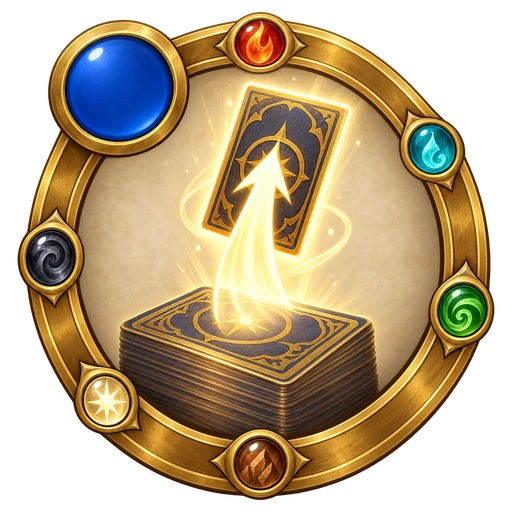
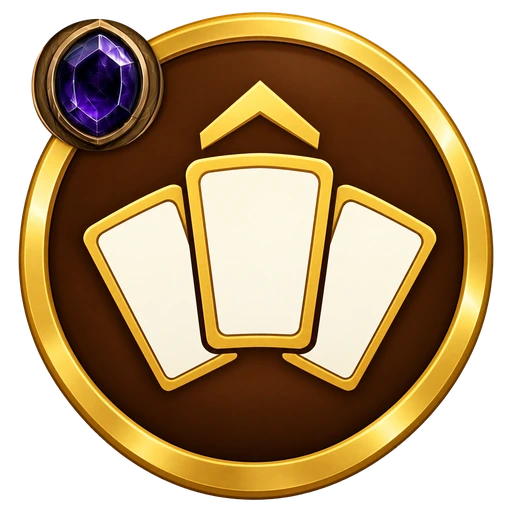
v0.321 소울 드로우 아이콘 4번

diff --git a/fantasy_arena/js/render.js b/fantasy_arena/js/render.js
@@ -1174,15 +1174,15 @@ function layoutHudGems() {
     const L = parseFloat(el.style.left);
     if (!Number.isNaN(L)) el.style.setProperty("left", (L - 170) + "px", "important");
   });
-  // v0.320 소울 드로우 버튼 (~68px @1280×800). 내 버튼: 소울 표시 바로 아래(핸드 10장 오른쪽 끝 바깥 · 5번째 유닛 칸 아래).
+  // v0.321 소울 드로우 버튼 (~92px @1280×800, v0.319의 2배). 내 버튼: 소울 표시 바로 아래(핸드 10장 오른쪽 끝 바깥 · 5번째 유닛 칸 아래).
   // 소울 표시 왼쪽은 핸드 10장 오른쪽 카드와, 위쪽은 5번째 유닛 칸과 겹쳐 빈 자리가 없다. 상대 버튼: 상대 소울 왼쪽, 비율 축소.
-  [["mySoulDraw", "mySoulGem", 1.0, "below"], ["oppSoulDraw", "oppSoulGem", 0.72, "left"]].forEach(([bid, gid, k, mode]) => {
+  [["mySoulDraw", "mySoulGem", 1.0, "below"], ["oppSoulDraw", "oppSoulGem", 0.6, "left"]].forEach(([bid, gid, k, mode]) => {
     const b = document.getElementById(bid);
     const g = document.getElementById(gid);
     if (!b || !g || !g.style.left) return;
     const gl = parseFloat(g.style.left), gt = parseFloat(g.style.top);
     if (Number.isNaN(gl) || Number.isNaN(gt)) return;
-    const D = Math.round(Math.max(44, SOUL_W * 1.15) * k);
+    const D = Math.round(Math.max(60, SOUL_W * 1.56) * k);
     // 보이는 소울 숫자(텍스트) 기준으로 붙인다 — #…SoulGem 상자는 숫자보다 넓다
     let textL = null, textCY = null, textB = null;
     try {
@@ -1258,18 +1258,20 @@ function layoutHudGems() {
 /** v0.319 소울 드로우 버튼 상태 (내 버튼: 클릭 · 상대 버튼: 표시만). 아이콘은 assets/img/ui/soul_draw.webp */
 const SOUL_DRAW_ICON = "assets/img/ui/soul_draw.webp";
 /** 아이콘(1024 기준)의 소울 보석 중심·반지름 — 아이콘 교체 시 여기만 맞춘다 */
-const SOUL_DRAW_GEM = { cx: 238, cy: 176, r: 104 };
-function paintSoulDrawCost(btn) {
+const SOUL_DRAW_GEM = { cx: 195, cy: 170, r: 90 };
+function paintSoulDrawCost(btn, cost) {
   const cv = btn && btn.querySelector("canvas.sd-cost");
-  if (!cv || cv._painted) return;
-  // 캔버스 = 아이콘 전체(1024 기준 좌표 비율). 파란 소울 보석 중심 (238,176) r104 → 숫자 크기 ≈ 1.3r
+  if (!cv) return;
+  const txt = String(cost != null ? cost : (typeof SOUL_DRAW_COST !== "undefined" ? SOUL_DRAW_COST : 3));
+  if (cv._painted && cv._txt === txt) return;   // v0.321: 비용 값이 바뀌면 다시 그림
+  cv._txt = txt;
+  // 캔버스 = 아이콘 전체(1024 기준 좌표 비율). v0.321 보라 소울 보석 중심 (195,170) → 숫자 크기 ≈ 1.3r
   const S = 256;
   cv.width = S; cv.height = S;
   const c2 = cv.getContext && cv.getContext("2d");
   if (!c2) return;
   const G = SOUL_DRAW_GEM;
   const cx = S * G.cx / 1024, cy = S * G.cy / 1024, size = Math.round(S * G.r * 1.3 / 1024);
-  const txt = String(typeof SOUL_DRAW_COST !== "undefined" ? SOUL_DRAW_COST : 3);
   // 카드 소울 숫자와 같은 글꼴·색 (900 Noto Sans KR · #120800 외곽선 · 흰색), 외곽선만 얇게
   c2.clearRect(0, 0, S, S);
   c2.save();
@@ -1297,7 +1299,7 @@ function initSoulDrawBtn(btn, clickable) {
   btn.innerHTML = `<img class="sd-icon" src="${SOUL_DRAW_ICON}?v=${v}" alt="" draggable="false"><canvas class="sd-cost" aria-hidden="true"></canvas>`;
   paintSoulDrawCost(btn);
   // 웹폰트 로드 후 다시 그림 (첫 그림이 Arial 대체 글꼴일 수 있음)
-  try { if (document.fonts && document.fonts.ready) document.fonts.ready.then(() => { const cv = btn.querySelector("canvas.sd-cost"); if (cv) { cv._painted = false; paintSoulDrawCost(btn); } }); } catch (e) {}
+  try { if (document.fonts && document.fonts.ready) document.fonts.ready.then(() => { const cv = btn.querySelector("canvas.sd-cost"); if (cv) { cv._painted = false; paintSoulDrawCost(btn, cv._txt); } }); } catch (e) {}
   if (clickable) {
     btn.addEventListener("pointerdown", () => { if (!btn.disabled) btn.classList.add("pressed"); });
     ["pointerup", "pointerleave", "pointercancel"].forEach(ev => btn.addEventListener(ev, () => btn.classList.remove("pressed")));
@@ -1309,6 +1311,13 @@ function updateSoulDrawBtns(me, opp) {
   const ob = document.getElementById("oppSoulDraw");
   initSoulDrawBtn(mb, true);
   initSoulDrawBtn(ob, false);
+  const costOf = (p) => (typeof soulDrawCost === "function") ? soulDrawCost(p) : 3;
+  if (mb) {
+    paintSoulDrawCost(mb, costOf(me));
+    const t = `소울 드로우\n${costOf(me)}소울: 카드 1장을 뽑는다 (한 턴에 한 번)`;
+    if (mb.title !== t) mb.title = t;
+  }
+  if (ob) paintSoulDrawCost(ob, costOf(opp));
   if (mb) {
     const can = typeof canSoulDraw === "function" && !me.isAI && canSoulDraw(me);
     mb.disabled = !can;

diff --git a/fantasy_arena/js/game.js b/fantasy_arena/js/game.js
@@ -1,4 +1,4 @@
-const GAME_VERSION = "0.320";
+const GAME_VERSION = "0.321";
 window.GAME_VERSION = GAME_VERSION;
 
 function uid() { return Math.random().toString(36).slice(2, 9); }
@@ -260,20 +260,31 @@ function startGame(vsAI) {
  * 스펠이 아니다 (올빼미의눈·맹덕신서와 무관). 드로우는 일반 draw() 경로 (손패 10장 소각·빈 덱 피로 동일).
  */
 const SOUL_DRAW_COST = 3;
+/**
+ * v0.321: 소울 드로우 비용 — 규칙 판정·차감·버튼 숫자가 모두 이 값을 읽는다.
+ * 스펠 등으로 바꿀 때: p.soulDrawCost (해당 플레이어) 또는 state.soulDrawCost (양쪽 공통).
+ */
+function soulDrawCost(p) {
+  const v = (p && p.soulDrawCost != null) ? p.soulDrawCost
+    : (typeof state !== "undefined" && state && state.soulDrawCost != null) ? state.soulDrawCost
+    : SOUL_DRAW_COST;
+  return Math.max(0, v | 0);
+}
 function canSoulDraw(p) {
   if (!state || state.over || !p) return false;
   if (p !== current()) return false;
   if (p._soulDrawUsed) return false;
-  if ((p.soul | 0) < SOUL_DRAW_COST) return false;
+  if ((p.soul | 0) < soulDrawCost(p)) return false;
   if (state.busy) return false;
   if (typeof ui !== "undefined" && ui && ui.battling) return false;
   return true;
 }
 function useSoulDraw(p) {
   if (!canSoulDraw(p)) return false;
-  p.soul -= SOUL_DRAW_COST;
+  const cost = soulDrawCost(p);
+  p.soul -= cost;
   p._soulDrawUsed = true;
-  log(p.isAI ? "상대가 소울 드로우 사용" : "소울 드로우 사용 (3소울 · 드로우 1)");
+  log(p.isAI ? "상대가 소울 드로우 사용" : `소울 드로우 사용 (${cost}소울 · 드로우 1)`);
   draw(p, 1);
   checkWin();
   return true;

diff --git a/fantasy_arena/index.html b/fantasy_arena/index.html
@@ -237,9 +237,9 @@
 <script src="js/bgm.js?v=0.301"></script>
 <script src="js/sfx.js?v=0.102"></script>
 <script src="js/settings.js?v=0.300"></script>
-<script src="js/render.js?v=0.320"></script>
+<script src="js/render.js?v=0.321"></script>
 <script src="js/combat.js?v=0.319"></script>
 <script src="js/spell-fx.js?v=0.102"></script>
-<script src="js/game.js?v=0.320"></script>
+<script src="js/game.js?v=0.321"></script>
 </body>
 </html>

diff --git a/fantasy_arena/BALANCE_RULES_LOCK.md b/fantasy_arena/BALANCE_RULES_LOCK.md
@@ -226,10 +226,11 @@
 모든 속성·영웅 공통 버튼 (양쪽 플레이어·AI 모두).
 
 - **3소울**을 내고 카드 **1장을 뽑는다.** 체력 비용 없음.
-- **한 턴에 한 번**, **내 턴에만**, 현재 소울이 3 이상일 때만 쓸 수 있다. 그 밖에는 버튼이 꺼진다(회색).
+- **한 턴에 한 번**, **내 턴에만**, 현재 소울이 비용(기본 3) 이상일 때만 쓸 수 있다. 그 밖에는 버튼이 꺼진다(회색).
 - 손패가 가득 차 있으면 뽑은 카드는 일반 드로우처럼 불탄다. 덱이 비었으면 일반 드로우와 같이 피로 피해.
 - **스펠이 아니다.** 올빼미의눈(상대 스펠 소울 +1)·맹덕신서(상대 스펠 복사)와 상관없다. 드로우로는 취급한다(일반 드로우 경로).
-- 위치: 전장 오른쪽 아래 내 소울 표시 바로 아래 원형 버튼 (~68px, 핸드 10장·5번째 유닛 칸과 겹치지 않는 자리 · 아이콘 `assets/img/ui/soul_draw.webp`, 왼쪽 위 파란 보석에 코드로 그린 숫자 3). 상대 버튼은 상대 소울 표시 왼쪽에 비율 축소.
+- 비용 값: 코드 `soulDrawCost(p)` = `p.soulDrawCost` → `state.soulDrawCost` → 기본 `SOUL_DRAW_COST`(3). 사용 가능 판정·소울 차감·버튼 숫자가 모두 이 값을 읽으므로 스펠 등으로 바꿀 수 있다 (v0.321).
+- 위치: 전장 오른쪽 아래 내 소울 표시 바로 아래 원형 버튼 (v0.321 ~92px @1280×800, 핸드 10장·5번째 유닛 칸·턴 종료 버튼과 겹치지 않는 자리 · 아이콘 `assets/img/ui/soul_draw.webp` = 카드 펼침 엠블럼, 왼쪽 위에 카드 소울 비용과 같은 보라 소울 보석, 숫자는 코드로 그림). 상대 버튼은 상대 소울 표시 왼쪽에 비율 축소(0.6×).
 - AI: 낼 카드가 없고 3소울 이상 남았고 손패가 가득 차지 않았으면(덱이 비지 않았을 때) 턴 끝에 사용한다.
 - **설계:** 드로우 카드는 3소울에 1장보다 확실히 이득이 되게 설계한다 (예: 2소울 1장 + 추가 효과).
 
